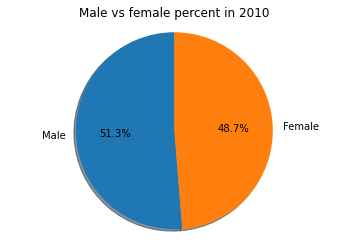
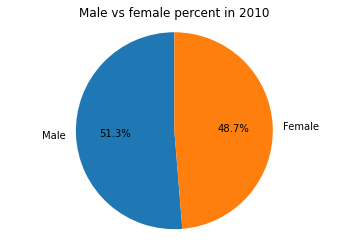
Remove shadows from plots

diff --git a/src/age_and_sex_plots.py b/src/age_and_sex_plots.py
@@ -8,9 +8,10 @@ Using "wdir='*/Demographic_Migration_Analysis/src'"
 
 Basic data processing and importing. A pyplot call is used, and one image is created.
 
+TODO: remove the shades from the pie charts, breakup the years
 """
 
-from src.MigrationData import MigrationData
+from MigrationData import MigrationData
 import pandas as pd
 import matplotlib.pyplot as plt
 #import numpy as np
@@ -163,37 +164,37 @@ if  __name__ == '__main__':
     y_plot.set_xlabel("Year")
     y_plot.plot()'''
     
-    for age in age_keys:
+    '''for age in age_keys:
         age_data_df[age] = age_data_df[age]/age_data_df['Total']
-    '''age_data_df = age_data_df.drop(columns = 'Total')
+    age_data_df = age_data_df.drop(columns = 'Total')
     ax2 = age_data_df.plot()
     ax2.set_ylabel("Age demographics")
     ax2.set_xlabel("Year")
     ax2.plot()'''
     
     
-    asd = age_data_df[age_keys[3]]
-    ax3 = age_data_df[age_keys[3]].plot(title = "Senior-aged migration")
-    ax3.set_ylabel("Percent of migrants")
+    '''age_data_seniors = age_data_df[age_keys[3]]/age_data_df[age_keys[3]][2019]
+    ax3 = age_data_seniors.plot(title = "Senior-aged migration")
+    ax3.set_ylabel("Percent of migrants as a proportion of 2019")
     ax3.set_xlabel("Year")
-    ax3.plot()
+    ax3.plot()'''
     
-    '''#Below are other plots, that are kept for documentation purposes and DID NOT make it into the presentation
+    #Below are other plots, that are kept for documentation purposes and DID NOT make it into the presentation
     sizes = [age_data_df[age_keys[0]][2010]/age_data_df['Total'][2010], age_data_df[age_keys[1]][2010]/age_data_df['Total'][2010], age_data_df[age_keys[2]][2010]/age_data_df['Total'][2010], age_data_df[age_keys[3]][2010]/age_data_df['Total'][2010]]
     explode = (0,0,0,0)
-    fig1, ax1 = plt.subplots()
-    ax1.pie(sizes, explode=explode, labels=age_keys, autopct='%1.1f%%', shadow=True, startangle=90)
-    ax1.axis('equal')  # Equal aspect ratio ensures that pie is drawn as a circle.
-    ax1.title.set_text("Age composition in 2010")
+    fig4, ax4 = plt.subplots()
+    ax4.pie(sizes, explode=explode, labels=age_keys, autopct='%1.1f%%', startangle=90)
+    ax4.axis('equal')  # Equal aspect ratio ensures that pie is drawn as a circle.
+    ax4.title.set_text("Age composition in 2010")
     plt.show()
     
     sizes = [age_data_df[age_keys[0]][2019]/age_data_df['Total'][2019], age_data_df[age_keys[1]][2019]/age_data_df['Total'][2019], age_data_df[age_keys[2]][2019]/age_data_df['Total'][2019], age_data_df[age_keys[3]][2019]/age_data_df['Total'][2019]]
     explode = (0,0,0,0)
-    fig1, ax1 = plt.subplots()
-    ax1.pie(sizes, explode=explode, labels=age_keys, autopct='%1.1f%%', shadow=True, startangle=90)
-    ax1.axis('equal')  # Equal aspect ratio ensures that pie is drawn as a circle.
-    ax1.title.set_text("Age composition in 2019")
-    plt.show()'''
+    fig4, ax4 = plt.subplots()
+    ax4.pie(sizes, explode=explode, labels=age_keys, autopct='%1.1f%%', startangle=90)
+    ax4.axis('equal')  # Equal aspect ratio ensures that pie is drawn as a circle.
+    ax4.title.set_text("Age composition in 2019")
+    plt.show()
     
     '''#Plotting the increase in working class migration
     #frame_worth = {age_keys[2]: age_data_df[age_keys[2]]}
@@ -209,7 +210,7 @@ if  __name__ == '__main__':
     for year in years:
         sex_data[year] = sex_data[year].sum()
     sex_data_df = pd.DataFrame(sex_data.values(), index = years, columns = ['Male', 'Female'])
-    #initial_sex_dif = sex_data_df['Male'][2010] - sex_data_df['Female'][2010]
+    '''#initial_sex_dif = sex_data_df['Male'][2010] - sex_data_df['Female'][2010]
     #fin_sex_dif = sex_data_df['Male'][2019] - sex_data_df['Female'][2019]
     sex_data_df['Total'] = sex_data_df['Male'] + sex_data_df['Female']
     sex_data_df['Male'] = sex_data_df['Male']/ sex_data_df['Total']
@@ -218,15 +219,15 @@ if  __name__ == '__main__':
     ax = sex_data_df.plot(title = 'Male vs female migration percent trends')
     ax.set_ylabel("Percent of migrants")
     ax.set_xlabel("Year")
-    ax.plot()
+    ax.plot()'''
     
-    
-    '''#Plotting for 2010 pie chart male vs female
+    '''
+    #Plotting for 2010 pie chart male vs female
     labels = 'Male', 'Female'
     sizes = [sex_data_df['Male'][2010], sex_data_df['Female'][2010]]
     explode = (0,0)
     fig1, ax1 = plt.subplots()
-    ax1.pie(sizes, explode=explode, labels=labels, autopct='%1.1f%%', shadow=True, startangle=90)
+    ax1.pie(sizes, explode=explode, labels=labels, autopct='%1.1f%%', startangle=90)
     ax1.axis('equal')  # Equal aspect ratio ensures that pie is drawn as a circle.
     ax1.title.set_text("Male vs female percent in 2010")
     plt.show()
@@ -234,7 +235,7 @@ if  __name__ == '__main__':
     sizes = [sex_data_df['Male'][2019], sex_data_df['Female'][2019]]
     explode = (0,0)
     fig2, ax2 = plt.subplots()
-    ax2.pie(sizes, explode=explode, labels=labels, autopct='%1.1f%%', shadow=True, startangle=90)
+    ax2.pie(sizes, explode=explode, labels=labels, autopct='%1.1f%%', startangle=90)
     ax2.title.set_text("Male vs female percent in 2019")
     ax2.axis('equal')  # Equal aspect ratio ensures that pie is drawn as a circle.
     plt.show()'''
